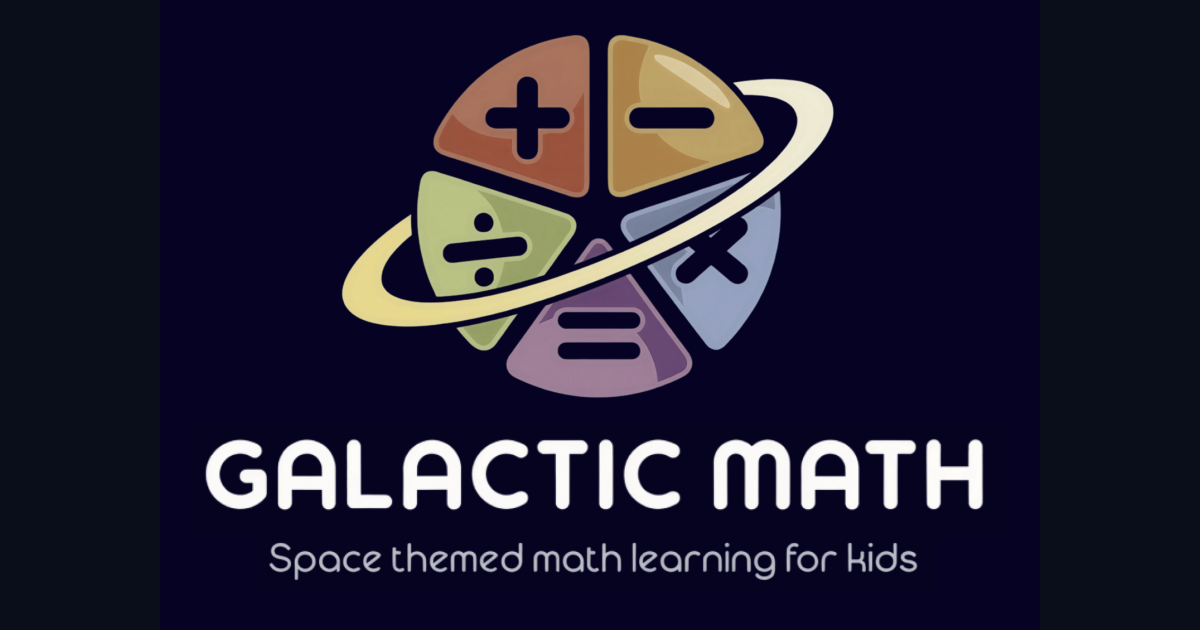
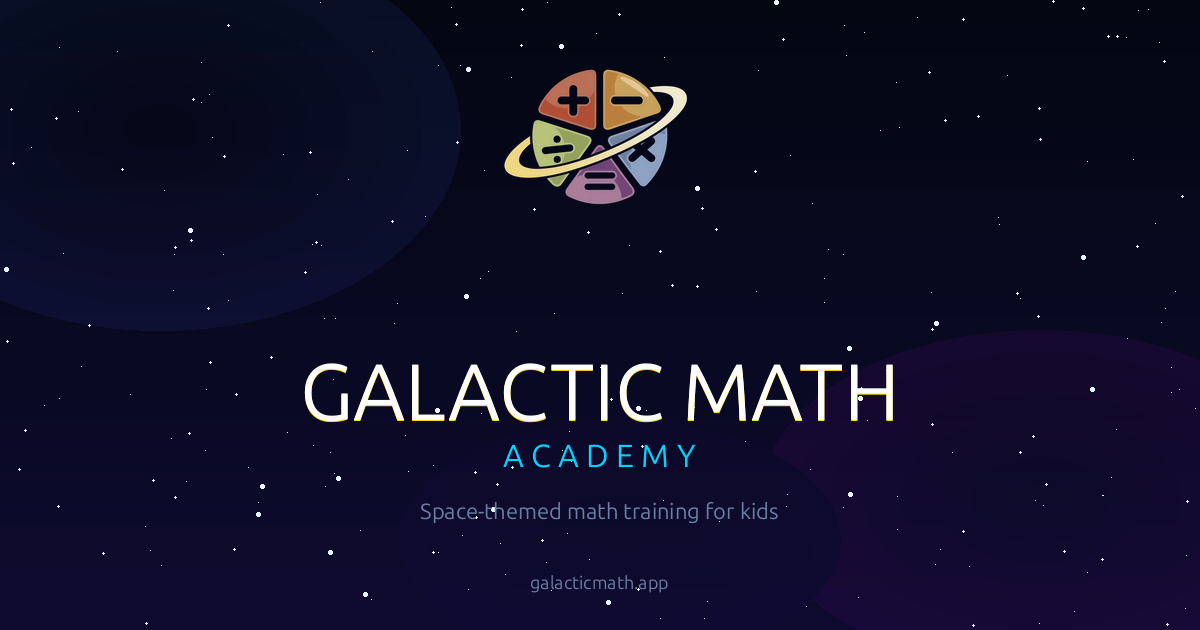
Fix OG image letterboxing and update page title meta tags
- Rebuild og-image.png: logo-planet-only (transparent bg) centered on a
  full-bleed dark-navy gradient canvas, eliminating the black letterbox
  bars that appeared in social share previews after IDT-109
- Update og-image.svg source to match the new raster design
- Set og:title / twitter:title / <title> to 55-char brand-accurate value:
  "Galactic Math — Space themed free math trainer for kids"
- Remove "Academy" from og:site_name and og:image:alt

Changed region(s): [[0.1542, 0.0603, 0.8325, 0.8444], [0.2158, 0.8444, 0.7708, 0.9349], [0.8633, 0.8746, 1.0, 1.0]]

diff --git a/index.html b/index.html
@@ -3,25 +3,25 @@
 <head>
 <meta charset="UTF-8">
 <meta name="viewport" content="width=device-width, initial-scale=1.0, viewport-fit=cover">
-<title>Galactic Math Academy</title>
+<title>Galactic Math — Space themed free math trainer for kids</title>
 <meta name="description" content="Space-themed math training for kids. Practice multiplication, division, addition, and subtraction with lightsabers, droids, and starships. Free, no login required.">
 
 <!-- Open Graph -->
 <meta property="og:type" content="website">
-<meta property="og:site_name" content="Galactic Math Academy">
+<meta property="og:site_name" content="Galactic Math">
 <meta property="og:url" content="https://galacticmath.app/">
-<meta property="og:title" content="Galactic Math Academy">
+<meta property="og:title" content="Galactic Math — Space themed free math trainer for kids">
 <meta property="og:description" content="Space-themed math training for kids. Practice multiplication, division, addition, and subtraction with lightsabers, droids, and starships. Free, no login required.">
 <meta property="og:image" content="https://galacticmath.app/og-image.png">
 <meta property="og:image:secure_url" content="https://galacticmath.app/og-image.png">
 <meta property="og:image:type" content="image/png">
 <meta property="og:image:width" content="1200">
 <meta property="og:image:height" content="630">
-<meta property="og:image:alt" content="Galactic Math Academy — space-themed math training for kids">
+<meta property="og:image:alt" content="Galactic Math — space-themed math training for kids">
 
 <!-- Twitter Card -->
 <meta name="twitter:card" content="summary_large_image">
-<meta name="twitter:title" content="Galactic Math Academy">
+<meta name="twitter:title" content="Galactic Math — Space themed free math trainer for kids">
 <meta name="twitter:description" content="Space-themed math training for kids. Practice multiplication, division, addition, and subtraction with lightsabers, droids, and starships. Free, no login required.">
 <meta name="twitter:image" content="https://galacticmath.app/og-image.png">
 
